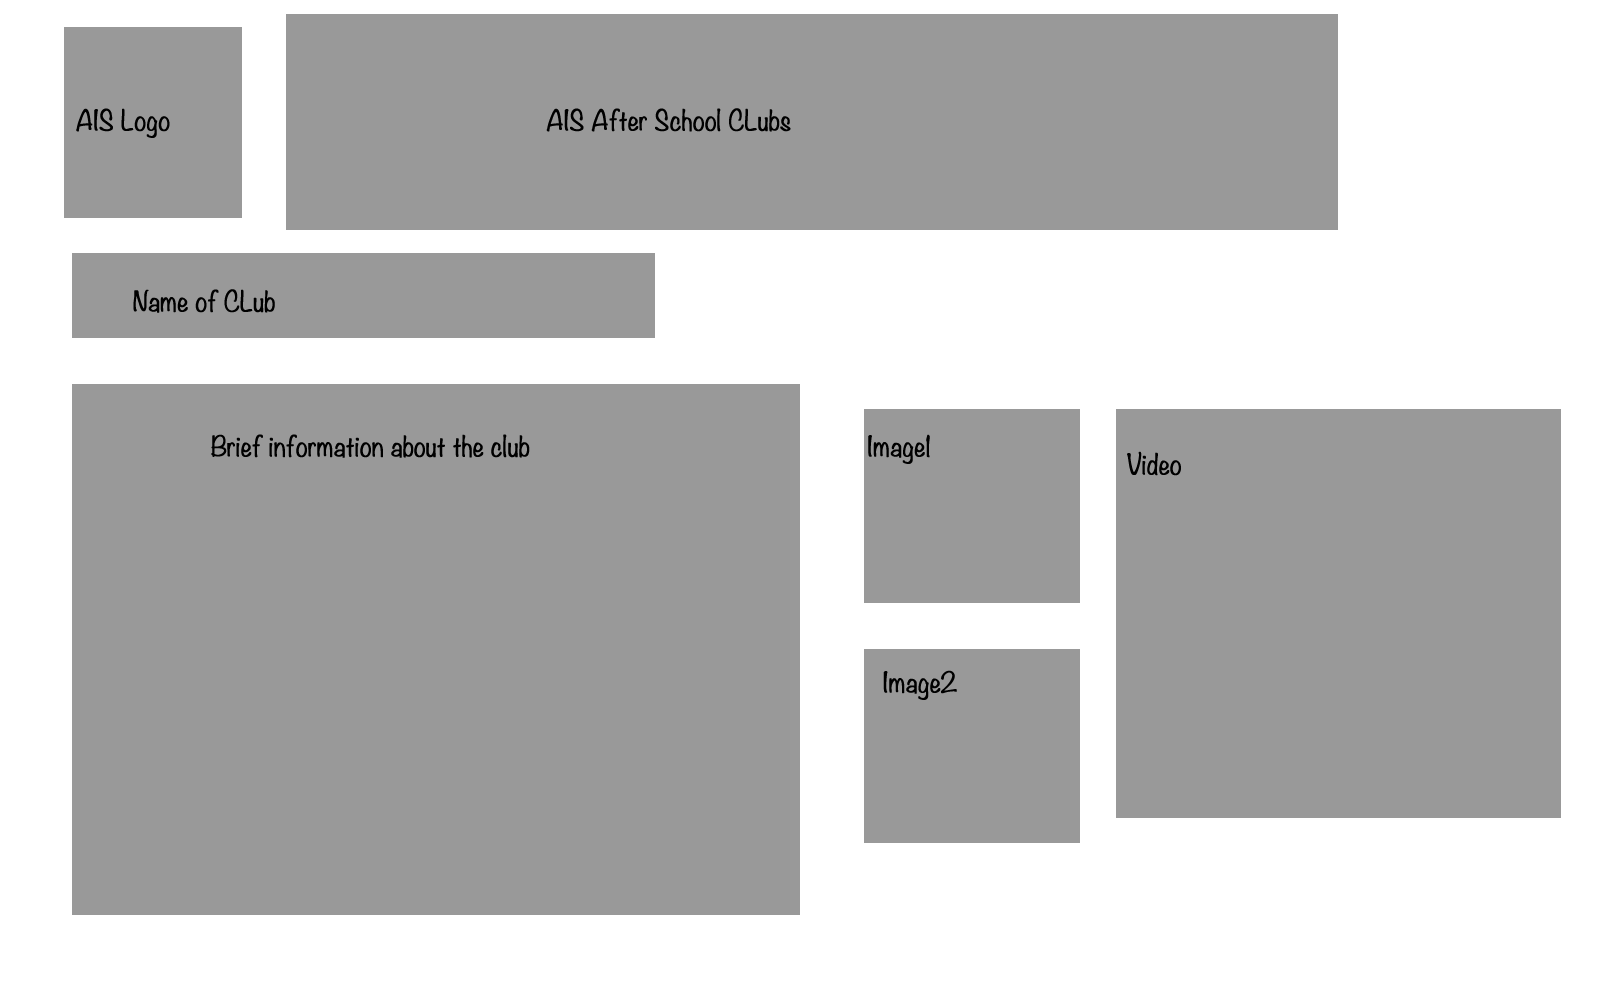
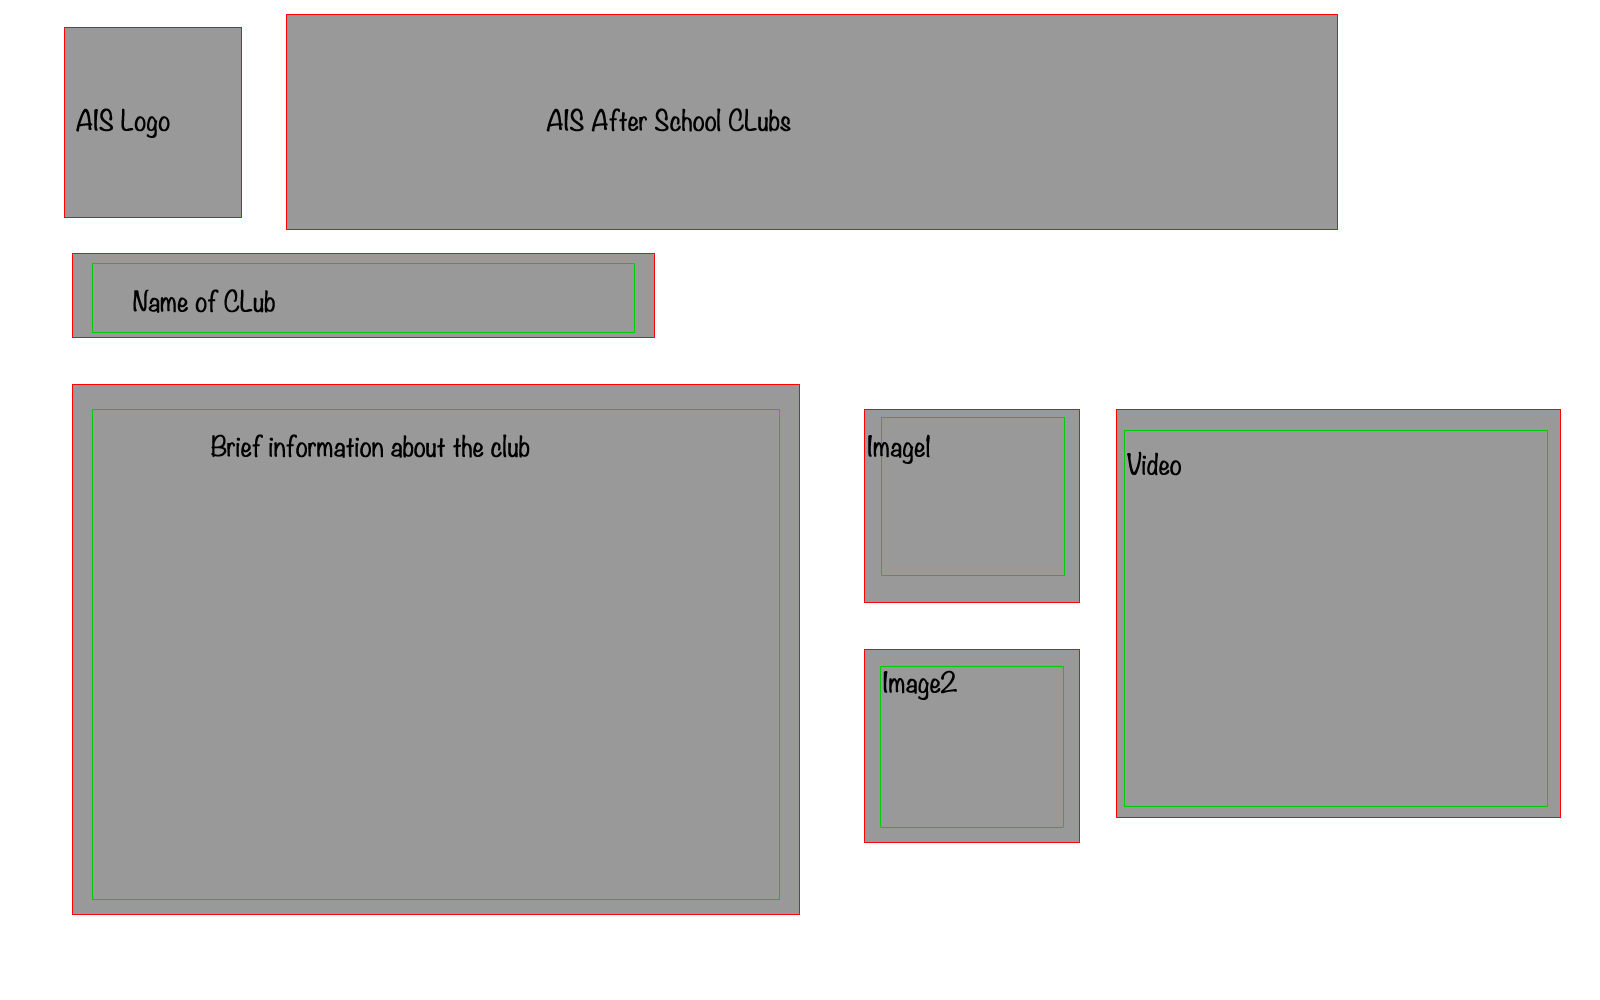
new idea to subpage

diff --git a/makingsubpage.html b/makingsubpage.html
@@ -5,4 +5,8 @@
   </head>
   <body>
     <p> we are now making our subpages for our website</p>
+    <p>some of the wireframe templates I made</p>
+    <img src="wireframe of subpage1.png">
+    <p>and the second idea</p>
+    <img src="wireframe of subpage 2.png">
   </body>
